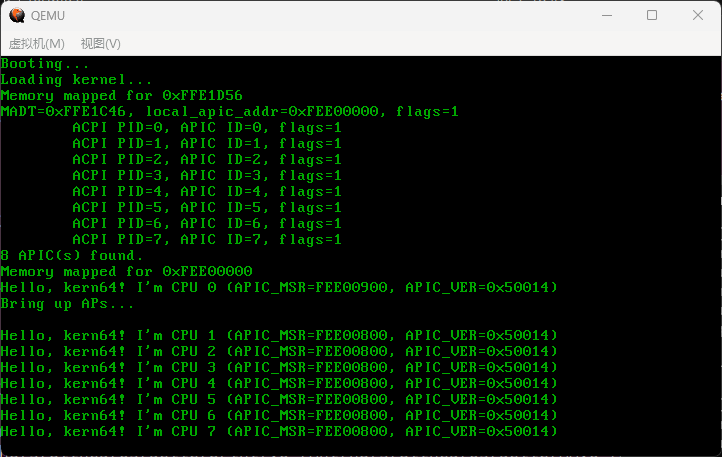
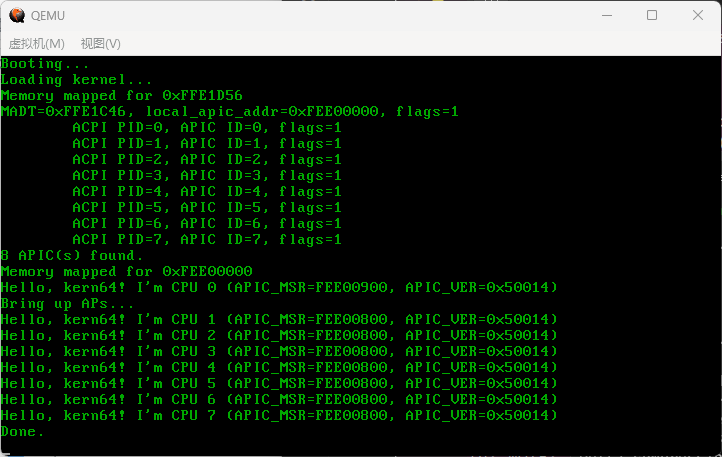
update screebshot

diff --git a/kern/smp.c b/kern/smp.c
@@ -41,7 +41,7 @@ void smp_init(void)
 {
     if (g_lapic_num < 2) return;
 
-    printf("Bring up APs...\n\n");
+    printf("Bring up APs...\n");
 
     void *base = get_lapic_base_addr();
     int self = get_lapic_id(base);
